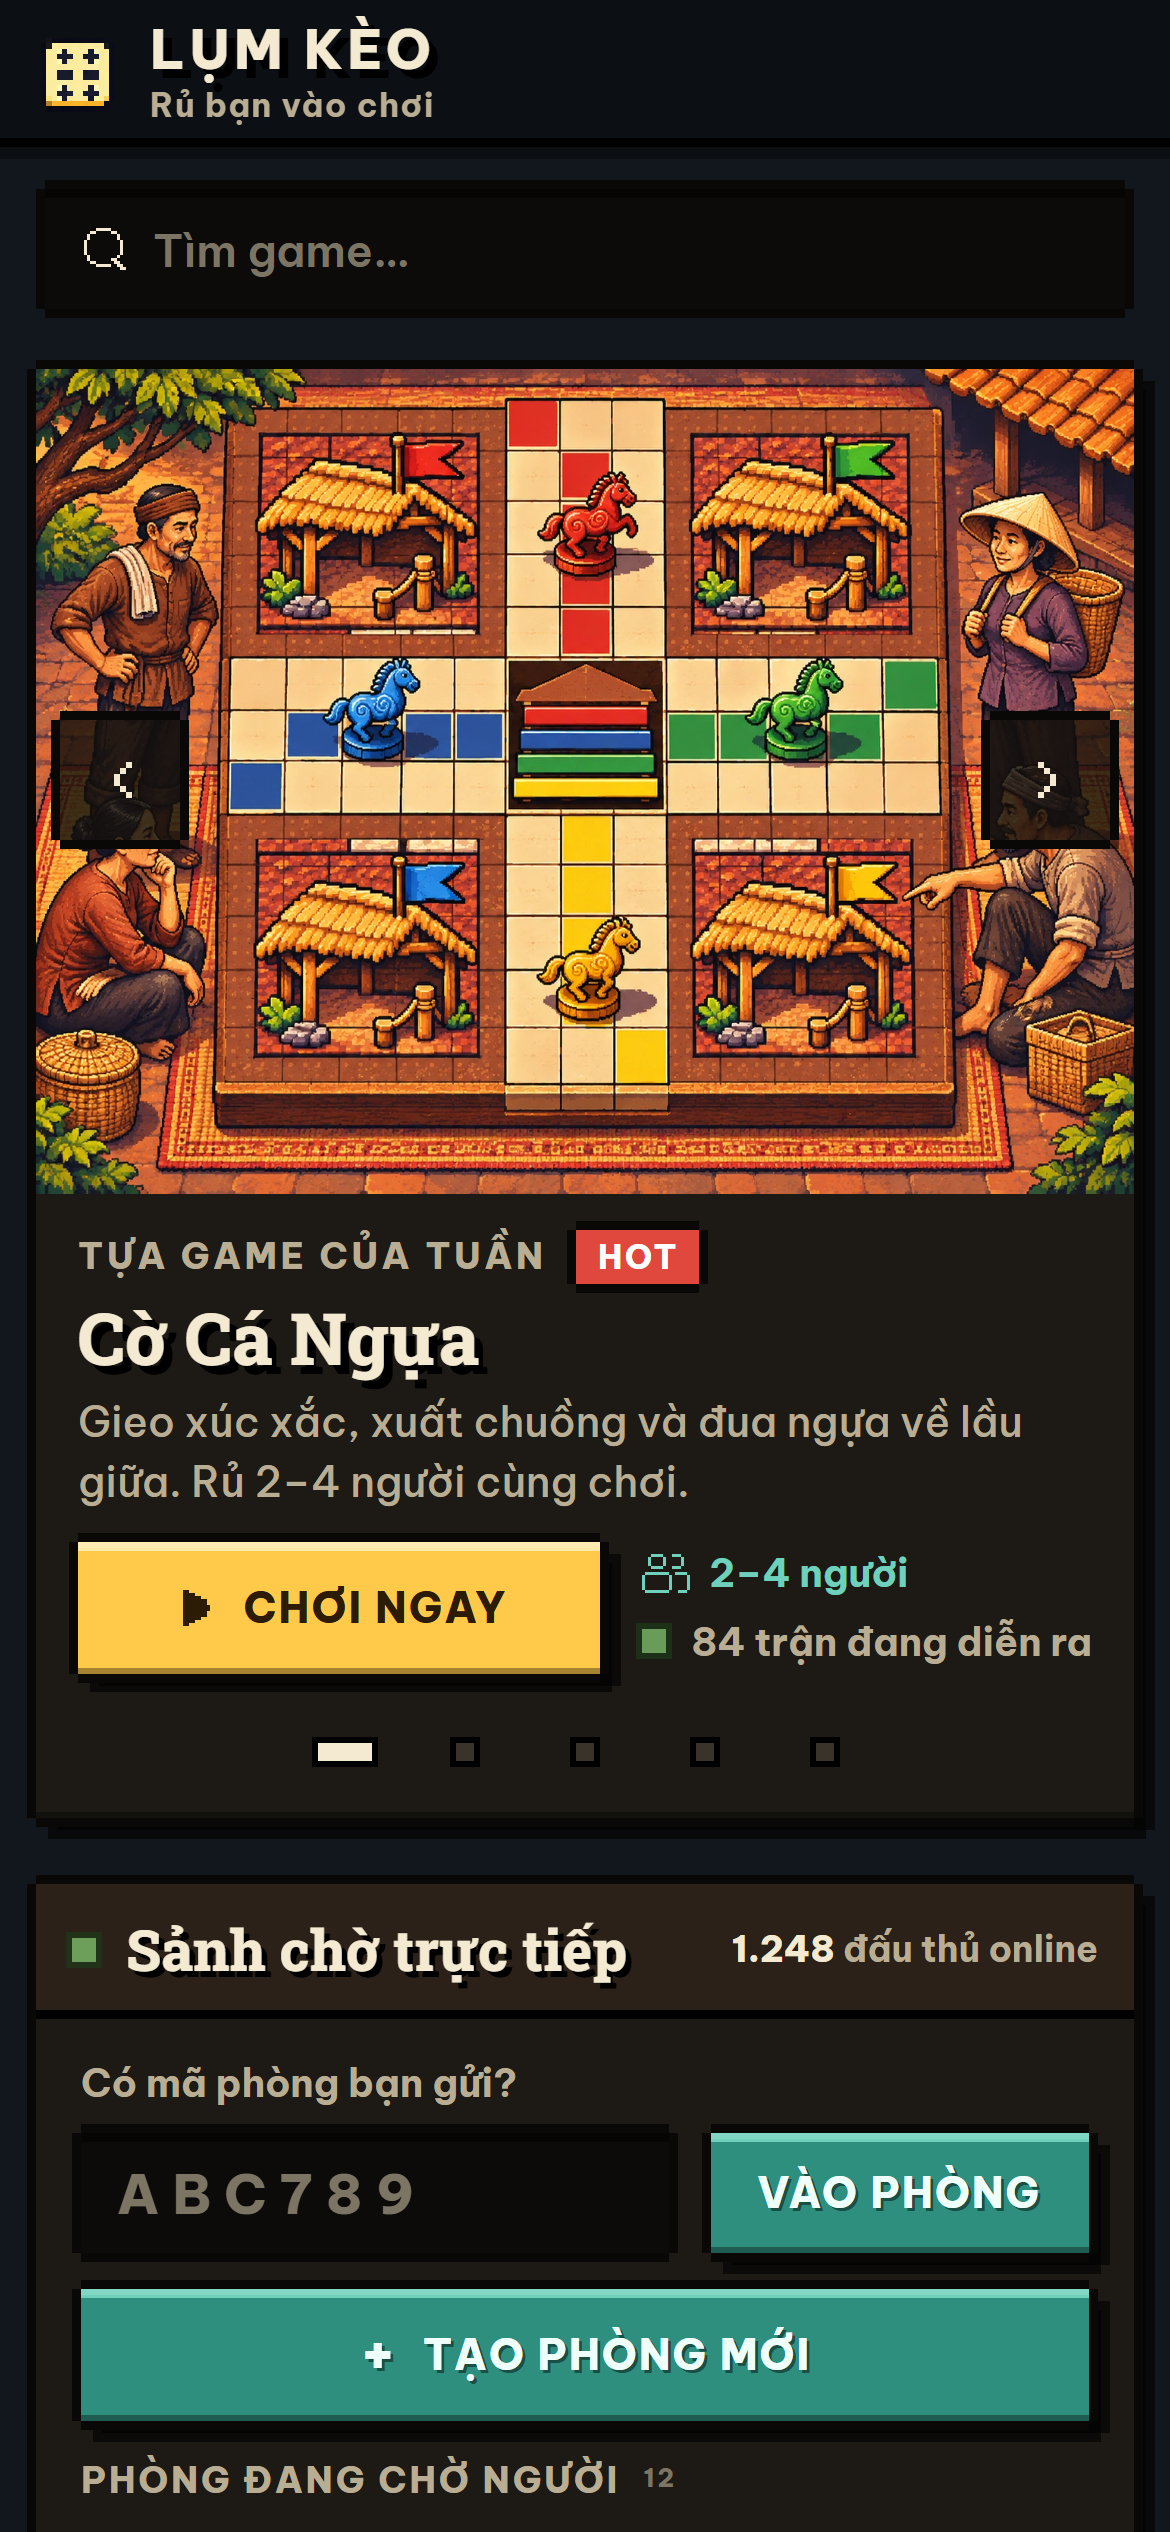
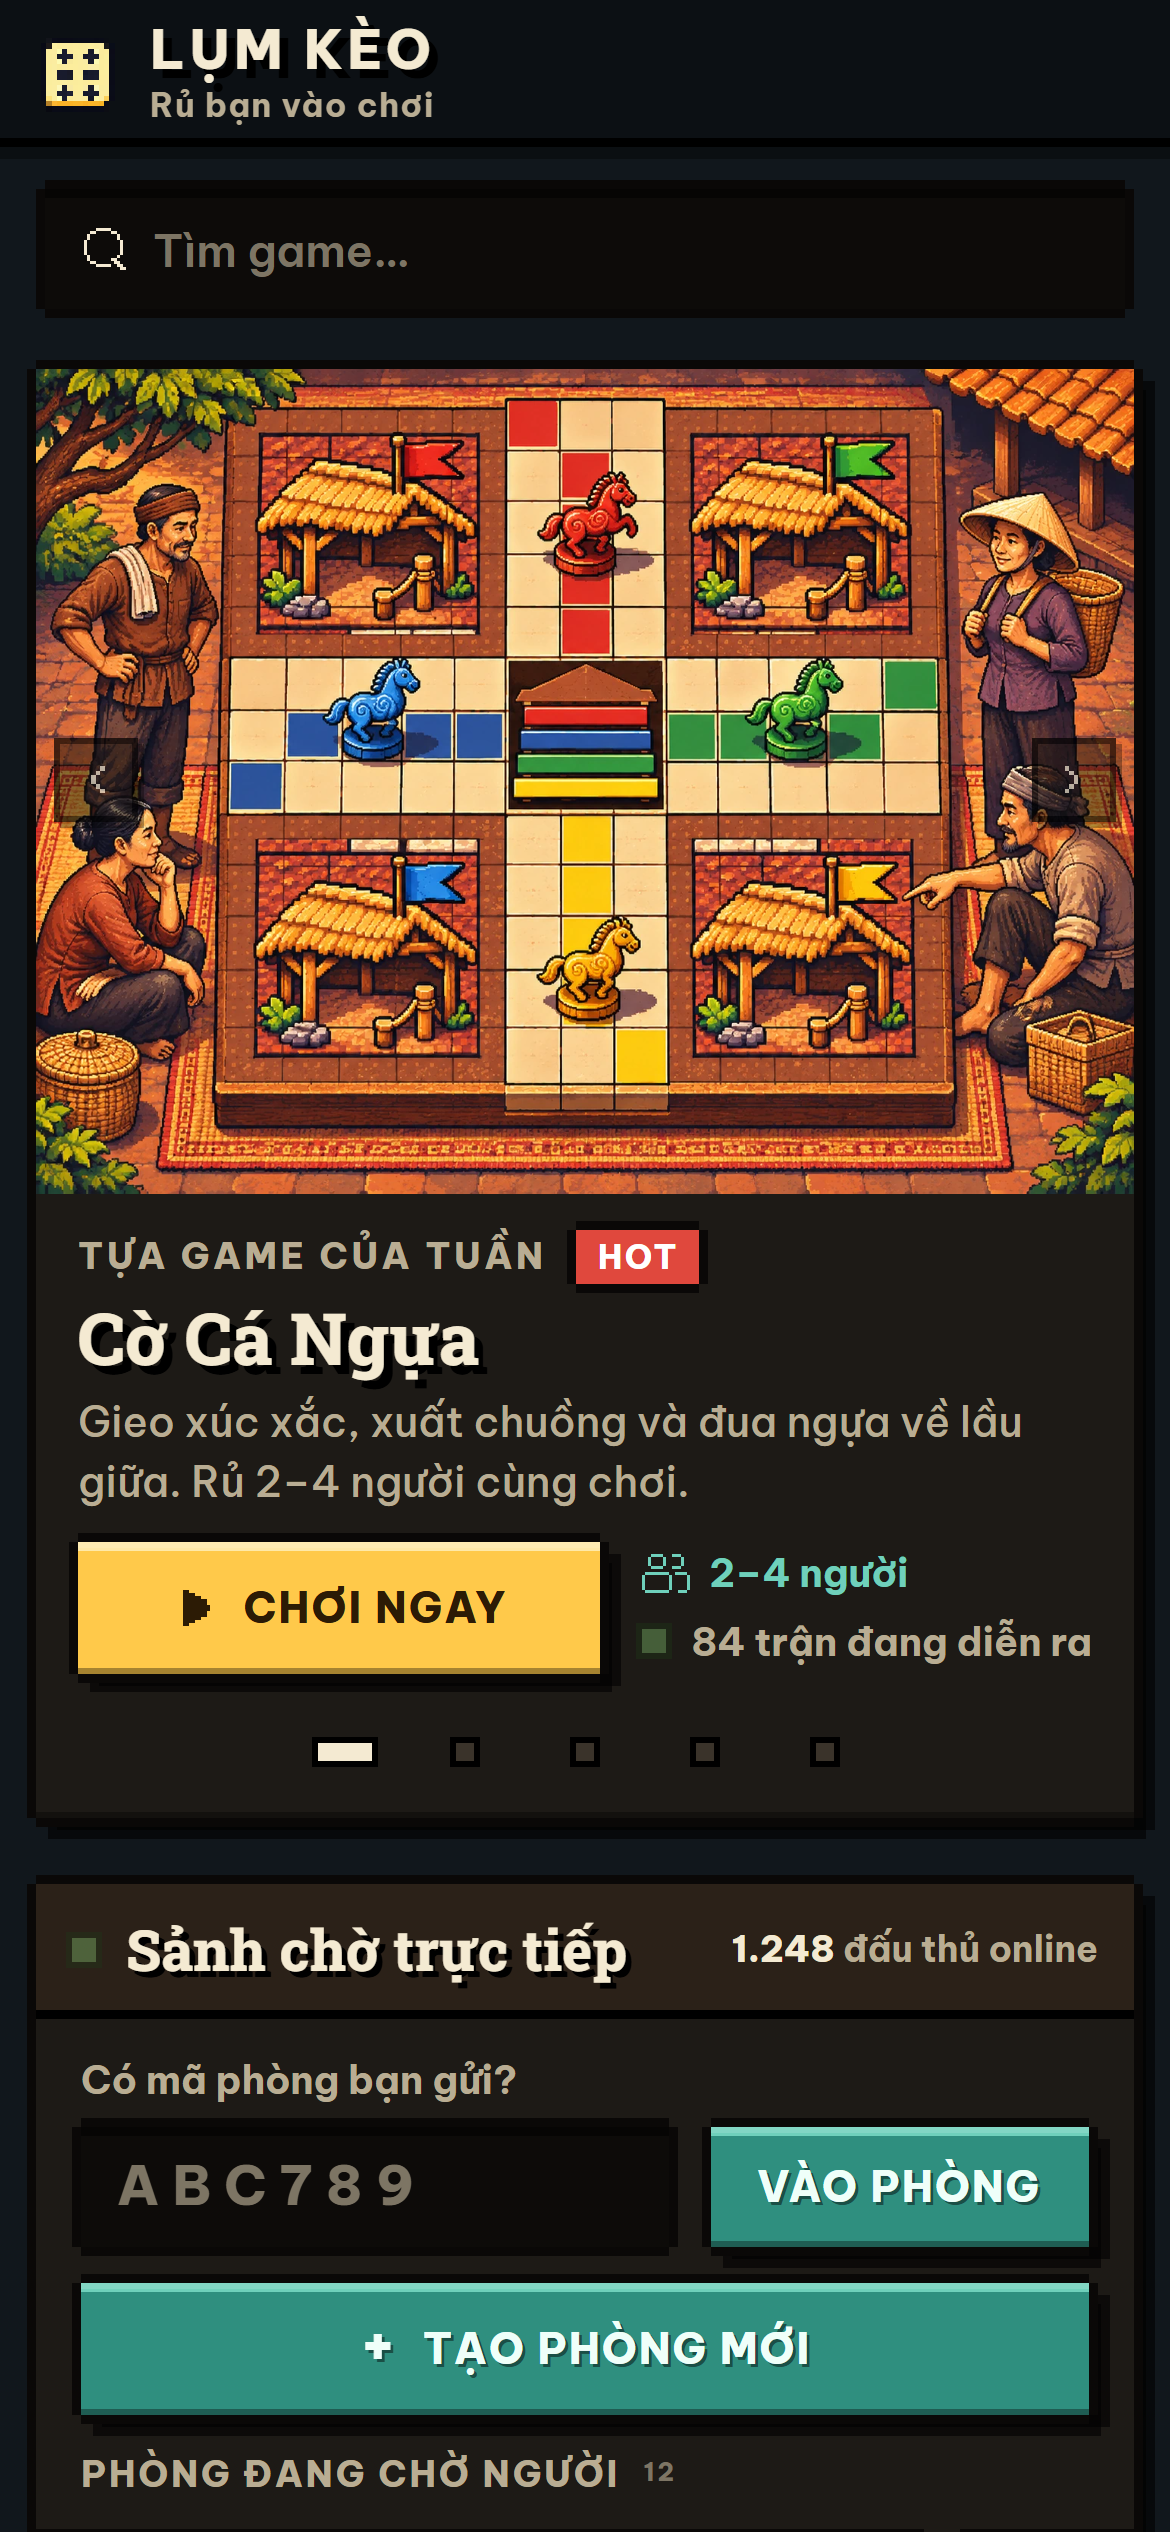
Trang chủ: thu nhỏ nút ‹ › màu đen trong hero (ít ai bấm — băng chuyền tự chạy + vuốt được)
Ô đen nhìn thấy 40px → 24px, mũi tên 16 → 12px, mờ 70% (rõ lại khi rê chuột / Tab).
Vùng bấm vẫn 40px trong suốt để điện thoại chạm trúng. Nút Chơi ngay, chấm chuyển trang, sảnh chờ giữ nguyên.
Kiểm tra trang chủ 79/79 (1440, 1100, 820, 390, 360).

diff --git a/prototype/homepage/styles.css b/prototype/homepage/styles.css
@@ -135,13 +135,18 @@ input.field { border: 0; border-radius: 0; outline: none; min-width: 0; font: 60
 .slide:hover .hero__art img { filter: brightness(1.06); }
 
 /* Nút trước/sau: nằm giữa chiều cao khung ảnh (ảnh cao = 75% bề rộng hero) */
+/* Nút ‹ › thu nhỏ cho đỡ nổi (ít ai bấm — băng chuyền tự chạy + vuốt được): ô đen nhìn thấy chỉ 24px, mờ bớt;
+   vùng bấm vẫn 40px trong suốt bao quanh để điện thoại chạm trúng */
 .hero__nav { all: unset; box-sizing: border-box; cursor: pointer; position: absolute; z-index: 3; top: calc(37.5cqw - 20px); width: 40px; height: 40px;
-  display: grid; place-items: center; color: var(--px-ink); background: rgba(20,16,12,.82); --b: #000; box-shadow: var(--px-border), 3px 3px 0 0 rgba(0,0,0,.5); }
-.hero__nav:hover { background: #30281f; }
-.hero__nav:active { transform: translate(2px, 2px); }
-.hero__nav:focus-visible { outline: 2px dashed var(--px-gold); outline-offset: 4px; }
-.hero__nav--prev { left: 10px; }
-.hero__nav--next { right: 10px; }
+  display: grid; place-items: center; color: var(--px-ink); opacity: .7; transition: opacity .15s; }
+.hero__nav::before { content: ""; position: absolute; inset: 8px; z-index: -1; background: rgba(20,16,12,.72); --b: #000; box-shadow: 0 0 0 2px #000, 2px 2px 0 2px rgba(0,0,0,.45); }
+.hero__nav .px-svg { width: 12px; height: 12px; }
+.hero__nav:hover, .hero__nav:focus-visible { opacity: 1; }
+.hero__nav:hover::before { background: #30281f; }
+.hero__nav:active { transform: translate(1px, 1px); }
+.hero__nav:focus-visible { outline: 2px dashed var(--px-gold); outline-offset: -2px; }
+.hero__nav--prev { left: 2px; }
+.hero__nav--next { right: 2px; }
 .hero__dots { display: flex; justify-content: center; gap: 2px; padding: 0 0 10px; }
 .hero__dot { all: unset; box-sizing: border-box; cursor: pointer; width: 28px; height: 24px; display: grid; place-items: center; }
 .hero__dot::before { content: ""; width: 10px; height: 10px; background: #3a332a; box-shadow: inset 0 0 0 2px #000; transition: width .2s; }
@@ -294,7 +299,7 @@ input.field { border: 0; border-radius: 0; outline: none; min-width: 0; font: 60
   .hero__art { box-shadow: inset -3px 0 0 #000; }
   .hero__info { align-content: center; padding: 18px; }
   .hero__nav { top: calc(20.6cqw - 20px); }
-  .hero__nav--next { right: auto; left: calc(55cqw - 50px); }
+  .hero__nav--next { right: auto; left: calc(55cqw - 42px); }
   .hero__dots { position: absolute; left: 55%; right: 0; bottom: 6px; padding: 0; }
 }
 @media (max-width: 720px) {
@@ -312,8 +317,8 @@ input.field { border: 0; border-radius: 0; outline: none; min-width: 0; font: 60
   .hero__row { gap: 14px; }
   .hero__row .btn { flex: 1; min-height: 44px; }
   .hero__nav { width: 40px; height: 40px; top: calc(37.5cqw - 20px); }
-  .hero__nav--prev { left: 8px; }
-  .hero__nav--next { right: 8px; }
+  .hero__nav--prev { left: 0; }
+  .hero__nav--next { right: 0; }
   .hero__dots { gap: 0; padding: 0 0 2px; }
   .hero__dot { width: 40px; height: 40px; } /* vùng chạm ≥ 40px trên điện thoại */
 
